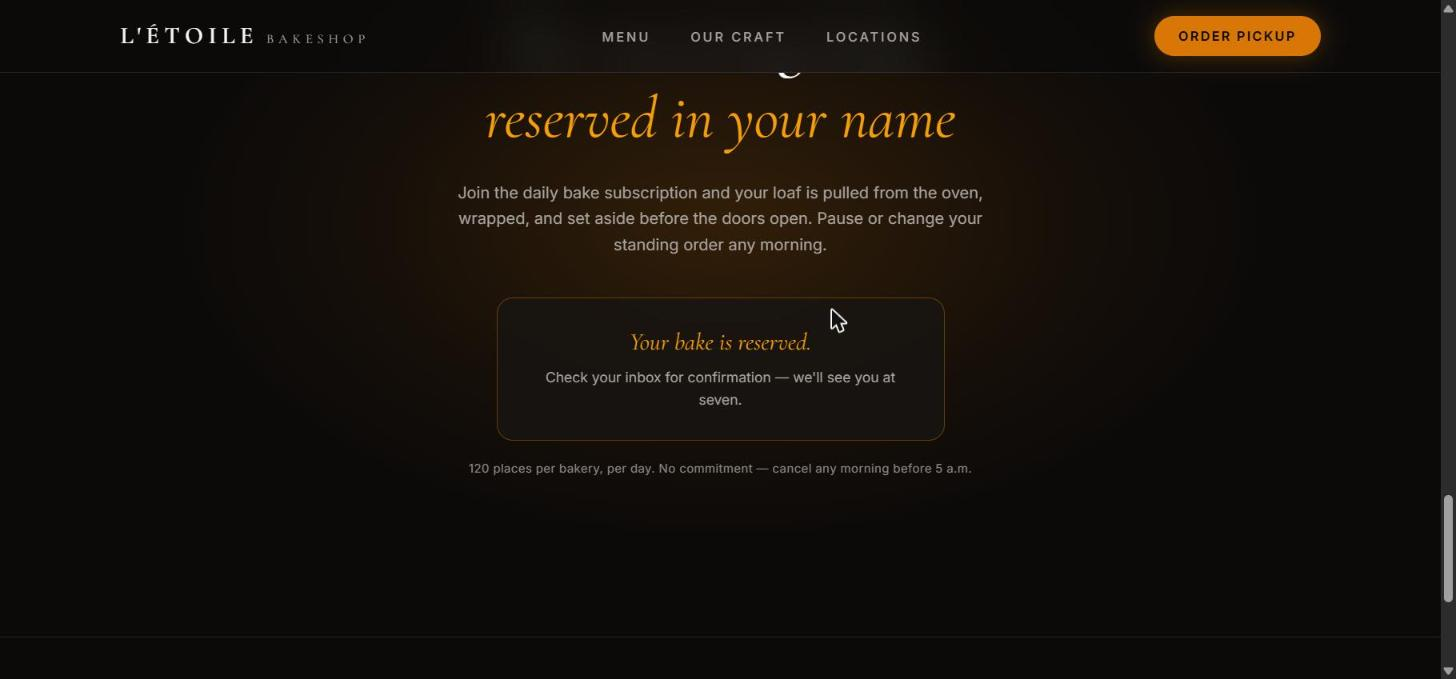
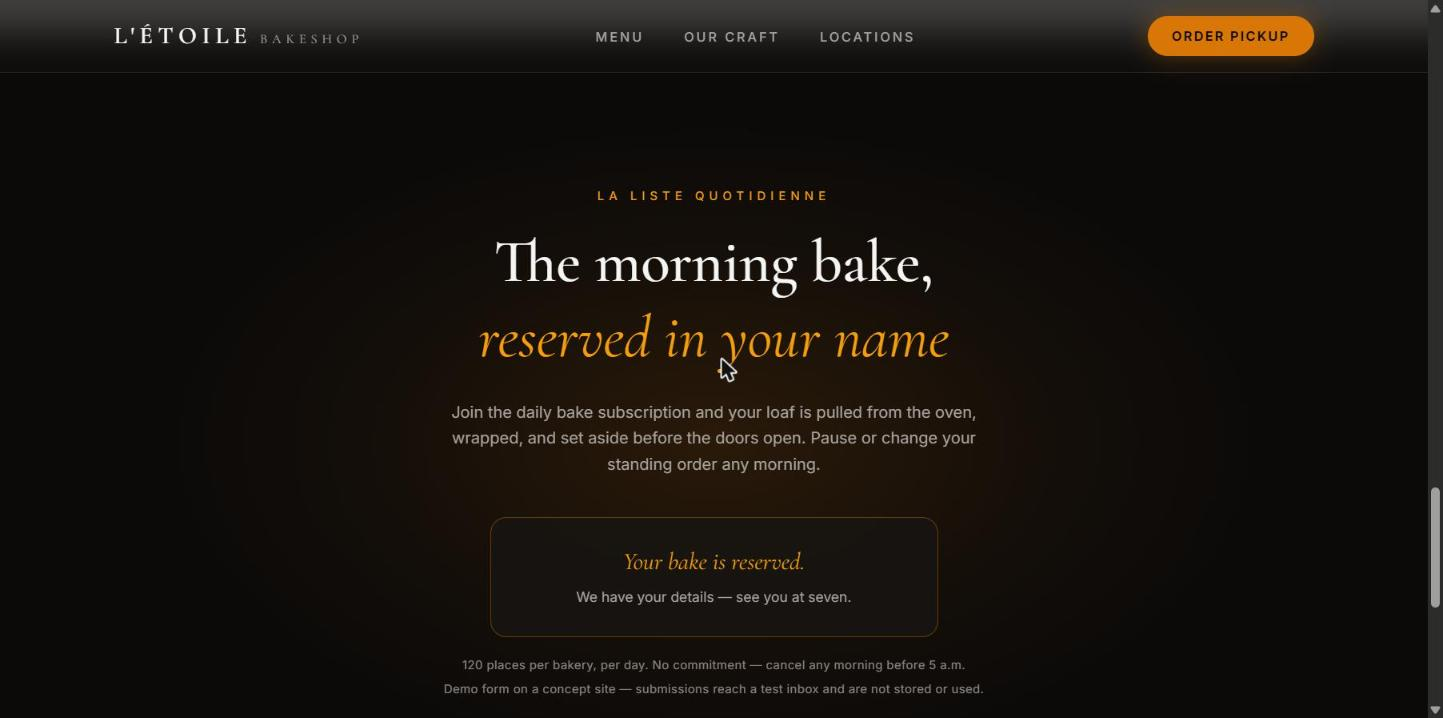
fix: make the form's on-page claims match what it actually does
The confirmation told visitors to check their inbox, but Web3Forms notifies the
bakery rather than replying to the sender, and autoresponders are a paid feature
we do not use. No such email was ever coming. The line is replaced with one that
only claims what is true.

Also disclose, under the existing capacity note, that this is a demo form on a
concept site and that submissions reach a test inbox and are not stored or used.
Real addresses are being collected on a site for a fictional business, so the
visitor is entitled to know where theirs goes.

Refresh the success screenshot to show the corrected wording.

diff --git a/src/components/SubscriptionCTA.tsx b/src/components/SubscriptionCTA.tsx
@@ -101,8 +101,11 @@ export default function SubscriptionCTA() {
               <p className="font-display text-2xl italic text-gold-bright">
                 Your bake is reserved.
               </p>
+              {/* No confirmation email is promised: Web3Forms notifies the
+                  bakery, and autoresponders are a paid feature we do not use.
+                  If one is ever enabled, the old line can come back. */}
               <p className="mt-2 text-sm leading-relaxed text-ivory-dim">
-                Check your inbox for confirmation — we&apos;ll see you at seven.
+                We have your details — see you at seven.
               </p>
             </div>
           ) : (
@@ -171,6 +174,10 @@ export default function SubscriptionCTA() {
         <p className="mt-5 text-xs tracking-wide text-ivory-dim/80">
           120 places per bakery, per day. No commitment — cancel any morning
           before 5 a.m.
+        </p>
+        <p className="mt-2 text-xs tracking-wide text-ivory-dim/80">
+          Demo form on a concept site — submissions reach a test inbox and are
+          not stored or used.
         </p>
       </div>
     </section>
